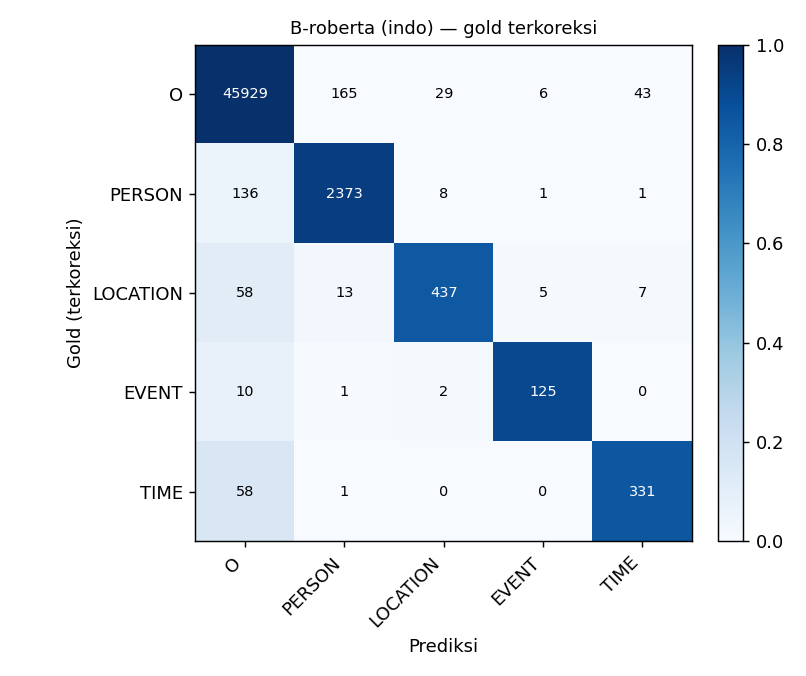
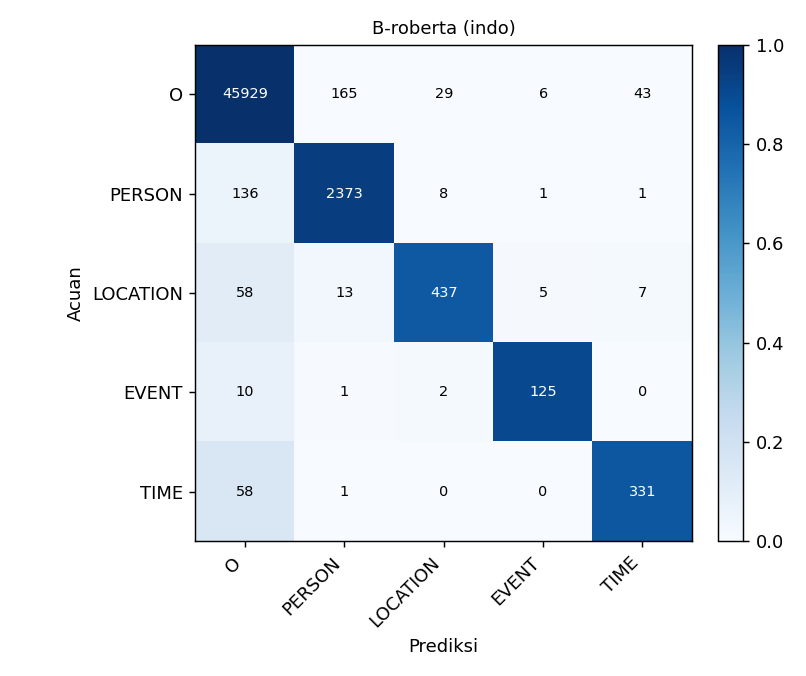
docs(bab4): perbaikan §4.5 Evaluasi KG (query Neo4j, artefak, komunitas 66, angka 728)
- §4.5.1: jumlah relasi ke angka Neo4j nyata (693 entitas + 35 IN_PERIOD = 728);
  +penjelasan 705 catatan → 12 triple duplikat di-MERGE
- §4.5.2: +2 paragraf analisis artefak berbasis data — Abu Azzah/Khunais (deg 70,
  Badr+Uhud, halaman 612) di PR; degenerasi betweenness (Abu Azzah vs Husain,
  skor kembar, Jabir jembatan semu, Ibnu Hajar perawi)
- Gambar 4.17: query diperbaiki jadi ego co-participation (lewat Event, weight>=0.3)
  agar cocok degree centrality Tabel 4.19; dibedakan dari 4.21 (ego relasi langsung)
- Gambar 4.18: dari 6 tokoh pilihan → komunitas terbesar UTUH (66 anggota) via
  properti community (set_community_v4.cypher); +Lampiran data komunitas
- Gambar 4.19: matplotlib → screenshot Neo4j (query gabungan 5 peristiwa)
- Fix path Gambar 4.11/4.14 → folder gt_corrected (GT-terkoreksi), bukan grupB lama
- recompute_gt_corrected.py: hapus teks "gold terkoreksi" dari judul/label confusion;
  10 PNG confusion diregen bersih
- +PANDUAN_neo4j_evaluasi_graf.md (runbook 8 screenshot + Tabel 4.25)

Changed region(s): [[0.3412, 0.0311, 0.7444, 0.0621], [0.062, 0.3417, 0.1241, 0.5281]]

diff --git a/src/pseudo_labelling/SRL-NER/recompute_gt_corrected.py b/src/pseudo_labelling/SRL-NER/recompute_gt_corrected.py
@@ -177,7 +177,7 @@ def plot_confusion(gold_lab: pd.Series, pred: pd.Series, title: str, path: Path)
     im = ax.imshow(cm_norm, cmap="Blues", vmin=0, vmax=1)
     ax.set_xticks(range(len(CONF_CLASSES))); ax.set_xticklabels(CONF_CLASSES, rotation=45, ha="right")
     ax.set_yticks(range(len(CONF_CLASSES))); ax.set_yticklabels(CONF_CLASSES)
-    ax.set_xlabel("Prediksi"); ax.set_ylabel("Gold (terkoreksi)")
+    ax.set_xlabel("Prediksi"); ax.set_ylabel("Acuan")
     ax.set_title(title, fontsize=10)
     for i in range(len(CONF_CLASSES)):
         for j in range(len(CONF_CLASSES)):
@@ -215,7 +215,7 @@ def main() -> None:
         f1_new = f1_score(ts_n, ps_n)
         rep_new = seq_report(ts_n, ps_n, digits=4)
         pl = per_label_f1(rep_new)
-        plot_confusion(gold_new, pred, f"{tag} — gold terkoreksi", CONF_DIR / f"{tag.split()[0]}.png")
+        plot_confusion(gold_new, pred, f"{tag}", CONF_DIR / f"{tag.split()[0]}.png")
         print(f"{tag:32s} F1 {f1_old:.4f} -> {f1_new:.4f}  ({f1_new-f1_old:+.4f})")
         rows.append({"tag": tag, "f1_old": f1_old, "f1_new": f1_new,
                      "P": precision_score(ts_n, ps_n), "R": recall_score(ts_n, ps_n),

diff --git a/docs/bab4/hasil_pembahasan.md b/docs/bab4/hasil_pembahasan.md
@@ -280,7 +280,7 @@ Awal nama "Murrah" yang seharusnya penanda awal entitas (*B*) justru ditandai se
 *Confusion matrix* IndoBERT *cased* ditunjukkan pada Gambar 4.11. Dibandingkan model sehat pada Gambar 4.4, kebocoran pada penanganan *Person* langsung terlihat: sel *O* yang diprediksi *Person* melonjak ke 200 token dan *Person* yang diprediksi *O* ke 149 token, jauh di atas *augmentation* yang hanya 12 dan 15. Kekeliruan antar-tipe pun naik menjadi 39 token yang menyebar pada sel-sel kecil di sekitar *Person* dan *Location*, berbanding hanya 4 token pada model sehat. Satu hal penting saat membaca gambar ini, matriksnya bersifat tingkat-tipe sehingga penanda *B* dan *I* digabung; akibatnya ledakan kesalahan batas *B/I* (sekitar 138 token yang menjadi gejala utama anomali) tidak muncul sebagai sel tersendiri melainkan tersembunyi di dalam hitungan *Person* yang dianggap benar. Dengan kata lain, Gambar 4.11 memperlihatkan sisi deteksi dan tipe dari defisit *Person*, sedangkan komponen batasnya terbaca terpisah pada hitungan token yang dibahas sebelumnya.
 
 [SISIPKAN GAMBAR 4.11 - Confusion Matrix IndoBERT cased (anomali)]
-<!-- file: data/result/analysis/error_viz/per_skenario/indobert-cased/confusion_matrix.png -->
+<!-- file: data/result/analysis/gt_corrected_2026_07_10/confusion/B-indobert-cased.png (GT-terkoreksi done_newest; path lama error_viz/per_skenario/indobert-cased/... = grupB 17 Juni, JANGAN dipakai) -->
 
 ---
 
@@ -337,7 +337,7 @@ Untuk memperlihatkan kategori error terbesar itu secara konkret, yaitu entitas t
 *Confusion matrix* skenario POS-tag ditunjukkan pada Gambar 4.14. Strukturnya menyerupai model sehat, yaitu kesalahan terkonsentrasi pada baris dan kolom *O* sementara kebingungan antar-tipe entitas tetap kecil (hanya sekitar 10 token). Dibandingkan *baseline*, sel over-deteksi justru mengecil, terutama *O* yang diprediksi *Person* (28 token berbanding 38 pada *baseline*), sedangkan sel entitas yang diprediksi *O* membesar, terutama *Location* yang terlewat (43 token berbanding 33). Pola ini sejalan dengan Tabel 4.15 yang menunjukkan *precision* POS-tag lebih tinggi tetapi *recall* lebih rendah, yaitu fitur POS membuat model lebih berhati-hati sehingga lebih sedikit salah tebak tetapi lebih banyak entitas terlewat.
 
 [SISIPKAN GAMBAR 4.14 - Confusion Matrix Skenario POS-tag]
-<!-- file: data/result/analysis/error_viz/per_skenario/POS-tag/confusion_matrix.png -->
+<!-- file: data/result/analysis/gt_corrected_2026_07_10/confusion/S5-POS-tag.png (GT-terkoreksi done_newest; path lama error_viz/per_skenario/POS-tag/... = grupB 17 Juni, JANGAN dipakai) -->
 
 Perbandingan *baseline* dan POS-tag dari empat sudut dirangkum pada Gambar 4.15. Panel total error (kiri-atas) menunjukkan keduanya nyaris sama banyak (POS-tag 164 berbanding *baseline* 165 token). Yang lebih informatif adalah dua panel komposisi: panel *false negative* per kelas (kanan-atas) memperlihatkan POS-tag justru melewatkan lebih banyak entitas (106 berbanding 98 token, tambahan terbesar pada *Location*), sedangkan panel *false positive* per kelas (kiri-bawah) memperlihatkan kebalikannya, yaitu over-deteksi POS-tag mengecil (40 berbanding 55 token). Kedua panel ini adalah wujud visual paling langsung dari pertukaran *precision* yang naik tetapi *recall* yang turun, yaitu model menjadi lebih berhati-hati sehingga lebih sedikit salah tebak, tetapi dengan ongkos lebih banyak entitas terlewat. Panel *FN-rate* per kelas (kanan-bawah) menunjukkan POS-tag tidak menurunkan tingkat terlewat kelas minoritas secara konsisten (*Time* sedikit membaik sementara *Location* justru memburuk), perubahan yang terlalu kecil dan tidak searah untuk disebut manfaat bersih. Dengan demikian, panel ini memperkuat kesimpulan bahwa modul POS-tag tidak memberikan perbaikan bersih.
 
@@ -358,7 +358,7 @@ Analisis sentralitas tokoh dilakukan pada proyeksi jaringan antar tokoh (*Person
 
 ### 4.5.1 Konstruksi Knowledge Graph
 
-*Knowledge graph* Sirah Nabawiyah dibangun dari hasil prediksi NER model pemenang (IndoBERT *uncased* dengan *augmentation*) terhadap seluruh korpus, lalu disimpan di Neo4j. Graf hasil konstruksi memuat 1.177 *node* entitas, yaitu 901 *Person*, 167 *Time*, 74 *Location*, dan 35 *Event*, ditambah 15 *node* *Period* sebagai penanda babak kronologis Sirah. Antar *node* terbentuk 705 relasi, yaitu 312 `KELUARGA`, 237 `INVOLVED_IN` (keterlibatan tokoh pada peristiwa), 47 `OCCURRED_AT` (lokasi peristiwa), 47 `OCCURRED_ON` (waktu peristiwa), 33 `SAHABAT`, 17 `PRECEDES` (urutan kronologis antar peristiwa), dan 12 `MUSUH`, ditambah 35 relasi `IN_PERIOD` yang menautkan tiap peristiwa ke periodenya. Setiap relasi menyimpan metadata penelusuran (*provenance*) berupa potongan bukti, nomor halaman, dan penanda *chunk*, sehingga setiap fakta pada graf dapat dilacak balik ke teks sumber. Contoh potongan *knowledge graph* hasil konstruksi ditunjukkan pada Gambar 4.16, yaitu sub-graf salah satu peristiwa (Perang Badr) beserta tokoh, lokasi, dan waktu yang tertaut, sebagai gambaran bentuk graf secara umum.
+*Knowledge graph* Sirah Nabawiyah dibangun dari hasil prediksi NER model pemenang (IndoBERT *uncased* dengan *augmentation*) terhadap seluruh korpus, lalu disimpan di Neo4j. Graf hasil konstruksi memuat 1.177 *node* entitas, yaitu 901 *Person*, 167 *Time*, 74 *Location*, dan 35 *Event*, ditambah 15 *node* *Period* sebagai penanda babak kronologis Sirah. Antar *node* terbentuk 693 relasi antar entitas, yaitu 312 `KELUARGA`, 229 `INVOLVED_IN` (keterlibatan tokoh pada peristiwa), 44 `OCCURRED_AT` (lokasi peristiwa), 46 `OCCURRED_ON` (waktu peristiwa), 33 `SAHABAT`, 17 `PRECEDES` (urutan kronologis antar peristiwa), dan 12 `MUSUH`, ditambah 35 relasi `IN_PERIOD` yang menautkan tiap peristiwa ke periodenya, sehingga *knowledge graph* memuat total 728 relasi. Tahap ekstraksi sebenarnya menghasilkan 705 catatan relasi, tetapi 12 di antaranya merupakan tiga serangkai (tokoh, jenis relasi, dan sasaran) yang identik namun ditemukan pada lokasi teks berbeda; keduabelas catatan itu digabung menjadi satu relasi dengan bukti ganda saat pemuatan ke Neo4j. Setiap relasi menyimpan metadata penelusuran (*provenance*) berupa potongan bukti, nomor halaman, dan penanda *chunk*, sehingga setiap fakta pada graf dapat dilacak balik ke teks sumber. Contoh potongan *knowledge graph* hasil konstruksi ditunjukkan pada Gambar 4.16, yaitu sub-graf salah satu peristiwa (Perang Badr) beserta tokoh, lokasi, dan waktu yang tertaut, sebagai gambaran bentuk graf secara umum.
 
 [SISIPKAN GAMBAR 4.16 - Contoh Knowledge Graph: Sub-graf Peristiwa Perang Badr]
 <!-- Screenshot Neo4j Browser. Reproduksi: `MATCH (e:Event {name:"Perang Badr"})-[r]-(n) RETURN e,r,n LIMIT 60` lalu tata layout & screenshot. Warna otomatis per-label (Person hijau-zaitun, Event biru, Location, Time). -->
@@ -428,22 +428,30 @@ Ketiga ukuran G1 sepakat menempatkan Muhammad di puncak dengan jarak yang sangat
 
 **Validasi tokoh yang terdengar asing.** Sebagian nama pada sepuluh besar mungkin terdengar asing dibanding tokoh yang lazim disebut sentral dalam literatur Sirah (para Khulafa Rasyidin). Kemunculan mereka berakar pada cara graf dibentuk, yaitu dua tokoh dihubungkan bila terlibat pada peristiwa yang sama (*co-participation*), sedangkan relasi keterlibatan (`INVOLVED_IN`) diekstraksi berdasarkan kedekatan posisi tokoh dengan nama peristiwa di dalam teks. Akibatnya, tokoh minor yang kebetulan disebut di dalam atau dekat *chunk* peristiwa berpenghuni padat (Perang Badr saja menautkan puluhan tokoh) otomatis terhubung ke seluruh peserta peristiwa itu dan membentuk *clique*, sehingga sentralitasnya ikut melonjak. Dengan kata lain, peringkat sentralitas sebagian mencerminkan seberapa banyak teks menyebut seseorang di sekitar peristiwa besar, bukan semata bobot historisnya. Contoh paling jelas adalah **Amr Bin Umayyah**: pada graf tanpa pembobotan ia sempat menempati peringkat kedua *PageRank* (degree 119), tepat di bawah Nabi Muhammad, posisi yang mencurigakan secara historis. Penelusuran balik ke teks menunjukkan tiga dari empat relasi `INVOLVED_IN`-nya adalah *false positive*, sebab keterkaitannya dengan Perang Badr, Uhud, dan Tabuk muncul dari kalimat yang sebenarnya membicarakan tokoh atau perbandingan lain, sementara hanya Perang Khandaq yang sahih; peran sebenarnya menurut teks adalah kurir Nabi ke Najasyi. Pembobotan sisi (membuang *co-mention* lemah) bersama pembatasan cakupan ke tokoh peserta peristiwa menurunkan Amr ke peringkat ke-12 sehingga ia tidak lagi muncul pada sepuluh besar Tabel 4.19. Kedua penyaringan itu menghapus kategori artefak terbesar, yaitu tokoh silsilah yang tanpa penyaringan sempat menggelembung ke puncak *PageRank* semata karena panjangnya rantai nasab (garis keturunan pra-Islam seperti para leluhur Nabi yang tidak pernah terlibat satu peristiwa pun), tetapi tidak menghapus seluruhnya. **Abu Azzah** (peringkat delapan) dan **Khunais bin Hudzafah** (peringkat sembilan) pada Tabel 4.19 adalah sisa artefak *clique*, yaitu keduanya disebut di dalam *chunk* peperangan besar (Perang Badr dan Uhud) sehingga otomatis tertaut ke seluruh pesertanya, dan karena namanya muncul pada kalimat yang sama dengan nama peristiwa, pembobotan tidak memangkasnya. Pola serupa menjelaskan kehadiran perawi pada peringkat jembatan Tabel 4.20, terutama **Ibnu Hajar**, seorang periwayat yang namanya berulang di seluruh teks sebagai penyebut sumber dan bukan pelaku peristiwa. Temuan ini menegaskan bahwa peringkat sentralitas wajib divalidasi balik ke teks, dan bahwa solusi tuntas atas over-ekstraksi `INVOLVED_IN` berbasis kedekatan posisi adalah ekstraksi relasi berbasis makna kata kerja, yang menjadi arah pengembangan lanjutan.
 
-Dominasi sentralitas Muhammad juga terlihat langsung ketika jaringan ego-nya disandingkan dengan tokoh lain. Gambar 4.17 membandingkan jaringan ego Nabi Muhammad dengan jaringan ego Abu Bakar, yaitu seluruh entitas yang terhubung langsung dengan masing-masing tokoh. Simpul Muhammad menautkan jauh lebih banyak tokoh dan peristiwa (sekitar 108 tetangga langsung) daripada Abu Bakar yang jauh lebih sedikit, sehingga selisih *degree centrality* pada Tabel 4.19 (Muhammad 0,7941 berbanding Abu Bakar 0,5441) terbaca sebagai perbedaan kepadatan graf yang mencolok. Perbandingan visual ini menegaskan bahwa dominasi Muhammad bukan sekadar angka, melainkan pola keterhubungan yang kasat mata.
+**Mengapa Abu Azzah dan Khunais bin Hudzafah masuk sepuluh besar.** Kedua nama ini menempati peringkat delapan dan sembilan dengan skor yang identik persis (*PageRank* 0,0161, *degree centrality* 0,5147, *closeness* 0,6242, tampil sebagai dua baris kembar pada Tabel 4.19), dan keidentikan itu sendiri adalah petunjuk pertama bahwa keduanya artefak, bukan sentralitas nyata, sebab dua tokoh historis yang berbeda hampir tidak mungkin memiliki posisi jaringan yang sama persis. Penelusuran ke graf memastikan penyebabnya: keduanya sama-sama tertaut hanya pada dua peristiwa, yaitu Perang Badr dan Perang Uhud, dua *chunk* peperangan berpenghuni paling padat (masing-masing menautkan 58 tokoh). Karena proyeksi *co-participation* menghubungkan setiap pasangan tokoh yang berbagi peristiwa, sekadar tercatat di dalam kedua *chunk* ramai itu langsung mengaitkan keduanya ke seluruh peserta kedua peristiwa, sehingga masing-masing memperoleh *degree* 70 dari 137 tokoh, yaitu terhubung ke lebih dari separuh jaringan, hanya sedikit di bawah Ali bin Abu Thalib (*degree* 78) yang merupakan tokoh sentral sesungguhnya. Inilah inti mekanisme artefak *clique*: nama minor yang kebetulan disebut di dalam *chunk* peristiwa besar mewarisi seluruh keterhubungan peristiwa itu tanpa pernah menjadi poros, dan karena himpunan tetangga Abu Azzah dan Khunais sama persis, skor sentralitas keduanya menjadi tak terbedakan. Bukti tambahan bahwa keterkaitan ini lahir dari kedekatan penyebutan, bukan keterlibatan nyata, terlihat pada sumbernya: kedua relasi Khunais, baik ke Perang Badr maupun ke Perang Uhud, berasal dari halaman yang sama (612), sebuah pasal biografis yang membahas pernikahan dan bukan narasi kedua peperangan itu, sehingga nama peristiwa yang kebetulan tersebut di dekat namanya cukup untuk membangkitkan relasi keterlibatan yang keliru. Pola ini sejenis dengan artefak Amr bin Umayyah yang telah dibahas, dan sekali lagi menegaskan bahwa over-ekstraksi `INVOLVED_IN` berbasis kedekatan posisi hanya dapat dituntaskan melalui ekstraksi relasi berbasis makna kata kerja.
+
+**Mengapa nama periferal menonjol pada betweenness (Tabel 4.20).** Ukuran *betweenness* pada graf sepadat ini sangat tidak stabil, dan tingkat ketidakstabilannya dapat ditunjukkan dengan satu contoh telak: Abu Azzah dan Husain bin Ali sama-sama hanya terlibat pada Perang Badr dan Perang Uhud serta sama-sama ber-*degree* 70, namun *betweenness* keduanya berbeda ratusan kali lipat (0,0001 berbanding 0,0548) semata karena perbedaan bobot sisi pada jaringan yang jenuh, bukan karena perbedaan peran sosial. Gejala yang sama muncul sebagai skor kembar: Ummu Kultsum dan Husain bin Ali memiliki *betweenness* identik (0,0548), begitu pula Al-Barra' bin Azib dan Ibnu Hajar (0,0380), dan keidentikan ini kembali menjadi penanda artefak struktural, bukan kesamaan peran historis. Satu-satunya nama periferal yang mendekati jembatan sejati adalah Jabir bin Abdullah di peringkat dua, yang berbeda dari lainnya karena tertaut ke tiga peristiwa yang benar-benar berbeda (Perang Uhud, Perang Khandaq, dan Perjanjian Hudaibiyah) sehingga menghubungkan tiga kelompok peristiwa sekaligus; namun keterhubungan itu pun tetap lahir dari aturan *co-participation*, bukan dari peran perantara yang tercatat eksplisit dalam teks. Adapun Ibnu Hajar, kemunculannya paling jelas sebagai artefak karena ia seorang periwayat yang namanya berulang di seluruh teks sebagai penyebut sumber, bukan pelaku peristiwa. Dengan demikian, *betweenness* di sini sebaiknya dibaca hanya untuk menegaskan dominasi Muhammad (0,2808, lebih dari empat kali peringkat kedua) dan tidak dipakai untuk menilai peringkat tokoh-tokoh di bawahnya.
+
+Dominasi sentralitas Muhammad juga terlihat langsung ketika jaringan ego-nya disandingkan dengan tokoh lain. Gambar 4.17 membandingkan jaringan ego Nabi Muhammad dengan jaringan ego Abu Bakar pada proyeksi antar tokoh, yaitu tokoh-tokoh yang terhubung dengan masing-masing melalui keterlibatan pada peristiwa yang sama (*co-participation*), sesuai dengan cara *degree centrality* pada Tabel 4.19 dihitung. Karena hubungan antar tokoh ini terbentuk lewat peristiwa bersama dan bukan melalui relasi langsung, penelusurannya pada Neo4j menempuh jalur tokoh ke peristiwa ke tokoh, yaitu melewati simpul *Event*, agar visualisasinya benar-benar mencerminkan jaringan yang diukur. Simpul Muhammad menautkan jauh lebih banyak tokoh (lebih dari seratus, sejalan dengan *degree centrality* 0,7941 yang setara sekitar 108 dari 137 tokoh) daripada Abu Bakar yang jauh lebih sedikit (sekitar tujuh puluh, *degree centrality* 0,5441), sehingga selisih itu terbaca sebagai perbedaan kepadatan graf yang mencolok. Perbandingan visual ini menegaskan bahwa dominasi Muhammad bukan sekadar angka, melainkan pola keterhubungan yang kasat mata.
 
 [SISIPKAN GAMBAR 4.17 - Perbandingan Jaringan Ego: Nabi Muhammad (kiri) vs Abu Bakar (kanan)]
-<!-- Dua screenshot Neo4j Browser bersanding, skala sama. Ego Muhammad: `MATCH (m:Person {name:"Muhammad"})-[r]-(n) RETURN m,r,n` . Ego Abu Bakar: `MATCH (m:Person {name:"Abu Bakar"})-[r]-(n) RETURN m,r,n` . Screenshot masing-masing lalu sandingkan. Muhammad ~108 tetangga vs Abu Bakar jauh lebih sedikit. -->
+<!-- Dua screenshot Neo4j Browser bersanding, skala sama. WAJIB ego CO-PARTICIPATION (lewat Event), BUKAN relasi langsung, agar cocok dgn degree centrality Tabel 4.19.
+Ego Muhammad:
+MATCH (m:Person {name:"Muhammad"})-[r1:INVOLVED_IN]->(e:Event)<-[r2:INVOLVED_IN]-(p:Person)
+WHERE r1.weight >= 0.3 AND r2.weight >= 0.3
+RETURN m, e, p
+Ego Abu Bakar: query sama, ganti name jadi "Abu Bakar".
+Hasil: Muhammad ~101 tokoh co-participation (degree proyeksi 108) vs Abu Bakar ~70 (degree 74). Simpul Event tampil sebagai perantara — itu benar, memperlihatkan co-participation terbentuk.
+CATATAN: ini BEDA dari Gambar 4.21 yang sengaja memakai ego relasi LANGSUNG (naratif KELUARGA/SAHABAT/MUSUH/INVOLVED_IN). Jadi 4.17 dan 4.21 = screenshot berbeda, tidak bisa dipakai ulang. -->
 
 ### 4.5.3 Komunitas Tokoh
 
-Deteksi komunitas (G3) dengan algoritma Louvain menghasilkan 8 komunitas dengan modularitas Q = 0,2831, nilai yang menunjukkan struktur kelompok yang masih terlihat namun tidak setajam graf yang lebih longgar, wajar mengingat inti peserta peristiwa saling terhubung rapat sehingga batas antar-kelompok melembut. Dua komunitas terbesar mendominasi: komunitas lingkar Muslim inti (66 anggota; tokoh utama Muhammad, Ali, Umar, Abu Bakar, Aisyah, Utsman) dan sebuah komunitas campuran (47 anggota) yang menautkan tokoh oposisi Quraisy (Abu Jahal, Abu Sufyan) dengan sejumlah tokoh Muslim yang banyak terlibat peperangan (Hamzah bin Abdul Muththalib, Zaid bin Haritsah). Percampuran ini sendiri menjadi tanda bahwa pada modularitas serendah ini pemisahan antar-faksi belum tajam, sejalan dengan padatnya jaringan yang dibahas pada Tabel 4.18. Pengelompokan bersifat cukup stabil terhadap pilihan algoritma pada tingkat sedang, ditunjukkan oleh kesepakatan antara Louvain dan *greedy modularity* (*Adjusted Rand Index* 0,47). Karena Neo4j Browser mewarnai simpul menurut labelnya dan bukan menurut komunitas, salah satu komunitas terbesar, yaitu lingkar Muslim inti, ditampilkan sebagai sub-graf tersendiri pada Gambar 4.18 untuk memperlihatkan kerapatan hubungan di dalam satu komunitas.
+Deteksi komunitas (G3) dengan algoritma Louvain menghasilkan 8 komunitas dengan modularitas Q = 0,2831, nilai yang menunjukkan struktur kelompok yang masih terlihat namun tidak setajam graf yang lebih longgar, wajar mengingat inti peserta peristiwa saling terhubung rapat sehingga batas antar-kelompok melembut. Dua komunitas terbesar mendominasi: komunitas lingkar Muslim inti (66 anggota; tokoh utama Muhammad, Ali, Umar, Abu Bakar, Aisyah, Utsman) dan sebuah komunitas campuran (47 anggota) yang menautkan tokoh oposisi Quraisy (Abu Jahal, Abu Sufyan) dengan sejumlah tokoh Muslim yang banyak terlibat peperangan (Hamzah bin Abdul Muththalib, Zaid bin Haritsah). Percampuran ini sendiri menjadi tanda bahwa pada modularitas serendah ini pemisahan antar-faksi belum tajam, sejalan dengan padatnya jaringan yang dibahas pada Tabel 4.18. Pengelompokan bersifat cukup stabil terhadap pilihan algoritma pada tingkat sedang, ditunjukkan oleh kesepakatan antara Louvain dan *greedy modularity* (*Adjusted Rand Index* 0,47). Karena Neo4j Browser mewarnai simpul menurut labelnya dan bukan menurut komunitas (pewarnaan per-komunitas menuntut plugin GDS yang tidak dipakai), hasil pengelompokan Louvain dari tahap analisis ditulis balik sebagai properti pada tiap simpul, lalu komunitas terbesar (66 anggota) ditampilkan utuh sebagai sub-graf tersendiri pada Gambar 4.18 untuk memperlihatkan kerapatan hubungan di dalam satu komunitas. Rincian keanggotaan seluruh komunitas (kedelapan komunitas bermakna beserta pasangan periferalnya) disajikan pada Lampiran [PERIKSA nomor: Data Komunitas Jaringan Tokoh], sedangkan di sini hanya ditampilkan sub-graf komunitas terbesarnya.
 
-[SISIPKAN GAMBAR 4.18 - Sub-graf Komunitas Lingkar Muslim Inti pada Neo4j Browser]
-<!-- Screenshot Neo4j Browser (tanpa GDS). Neo4j mewarnai per-label, bukan komunitas; pewarnaan komunitas butuh plugin GDS. Sebagai gantinya tampilkan anggota inti satu komunitas + relasi antar-mereka. Query:
-MATCH (p:Person)-[r]-(q:Person)
-WHERE p.name IN ['Muhammad','Abu Bakar','Umar bin Al-Khaththab','Utsman bin Affan','Ali bin Abu Thalib','Aisyah']
-  AND q.name IN ['Muhammad','Abu Bakar','Umar bin Al-Khaththab','Utsman bin Affan','Ali bin Abu Thalib','Aisyah']
-RETURN p,r,q
--- lalu screenshot. -->
+[SISIPKAN GAMBAR 4.18 - Sub-graf Komunitas Terbesar (66 anggota) pada Neo4j Browser]
+<!-- Screenshot Neo4j Browser. Neo4j mewarnai per-label, bukan komunitas (butuh plugin GDS yang tak dipakai). Solusi: jalankan set_community_v4.cypher dulu (menulis properti `community` dari sna_metrics.csv v4_scoped), lalu tampilkan komunitas terbesar (id 0, 66 anggota) UTUH:
+MATCH (p:Person {community:0})-[r]-(q:Person {community:0}) RETURN p,r,q
+-- Hasil: 66 simpul + relasi internal antar-mereka; tampak padat = itulah kerapatan komunitas yang mau ditunjukkan. Prasyarat: data/result/neo4j/set_community_v4.cypher (dijalankan setelah import_sirah_v4_hybrid.cypher). -->
 
 ### 4.5.4 Peristiwa, Lokasi, dan Periodisasi
 
@@ -520,10 +528,14 @@ Bukti paling kuat dari skenario ini adalah Muhammad sebagai tokoh dengan jangkau
 <!-- Angka di-recompute dari graf final SNA (edges_v4_hybrid.csv, INVOLVED_IN weight >= 0.3, sama dengan WEIGHT_THRESHOLD di sna_analysis.py) via visualize_case_study_events.py --version v4_hybrid. Konsisten dengan header tiap panel pada Gambar 4.19. -->
 
 
-[SISIPKAN GAMBAR 4.19 - Panel Sub-graf Lima Peristiwa Besar]
-<!-- file: data/result/analysis/v3/case_study_panel.png -->
+[SISIPKAN GAMBAR 4.19 - Sub-graf Lima Peristiwa Besar (Neo4j Browser)]
+<!-- Screenshot Neo4j Browser (§4.5 seluruhnya Neo4j, bukan matplotlib). Query gabungan lima peristiwa dalam satu tampilan:
+MATCH (p:Person)-[r:INVOLVED_IN]->(e:Event)
+WHERE e.name IN ["Perang Badr","Perang Uhud","Perjanjian Hudaibiyah","Perang Khaibar","Perang Tabuk"]
+RETURN p,r,e
+-- Hasil: 5 gugus event; Badr/Uhud padat (44/41 tokoh), Hudaibiyah/Khaibar 7, Tabuk 4; Muhammad menaut kelimanya. Warna otomatis per-label (Event vs Person). Alternatif: 5 screenshot terpisah, satu per baris Tabel 4.24. Angka acuan = Tabel 4.24 (v4). -->
 
-Secara visual, Gambar 4.19 menyusun kelima sub-graf dengan satu *node* peristiwa (kuning) di pusat tiap panel dan tokoh peserta (biru) mengelilinginya, dihubungkan garis merah untuk relasi `INVOLVED_IN` serta garis hijau untuk relasi antar-tokoh (keluarga dan sahabat). Perbedaan kepadatan antar panel langsung terbaca: panel Perang Badr (44 tokoh) dan Perang Uhud (41 tokoh) tampak rapat oleh banyak tokoh dan garis, sedangkan Perjanjian Hudaibiyah (7 tokoh), Perang Khaibar (7 tokoh), dan Perang Tabuk (4 tokoh) hanya berisi segelintir tokoh, sehingga kontras cakupan antar peristiwa terlihat sekilas pandang. Dari kelima peristiwa, terkumpul 83 tokoh unik dan hanya Muhammad yang hadir di seluruh lima peristiwa, menegaskan perannya sebagai tulang punggung jaringan. Ukuran sub-graf menurun tajam dari Perang Badr ke Perjanjian Hudaibiyah. Penurunan ini lebih mencerminkan **bias cakupan NER** (seberapa banyak tokoh disebut pada *chunk* peristiwa itu) daripada keterlibatan historis sebenarnya, karena setiap sub-graf peristiwa secara konstruksi membentuk *clique* (semua peserta saling terhubung) sehingga *density* selalu bernilai 1,0 dan tidak informatif sebagai pembanding. Ukuran (jumlah tokoh) dan jumlah relasi langsung antar tokoh lebih tepat dipakai sebagai pembanding kohesi. Sebagai bukti keterbatasan aturan ini, daftar peserta Perang Badr justru mencampur dua kubu yang saling berperang: tokoh Muslim (Ali bin Abu Thalib, Hamzah bin Abdul Muththalib, Utsman bin Affan) dan tokoh Quraisy (Abu Jahal, Abu Lahab, Abu Sufyan bin Harb) sama-sama tertaut sebagai `INVOLVED_IN` peristiwa yang sama. Hal ini menegaskan bahwa relasi *co-participation* hanya menyatakan "terlibat pada peristiwa yang sama", bukan "berada di pihak yang sama", sehingga sub-graf peristiwa tidak boleh dibaca sebagai aliansi.
+Secara visual, Gambar 4.19 menampilkan kelima peristiwa beserta tokoh pesertanya langsung dari Neo4j Browser dalam satu tampilan, dengan simpul diwarnai otomatis menurut labelnya (peristiwa dan tokoh berbeda warna) dan tiap peristiwa menjadi pusat gugus tokoh yang tertaut kepadanya melalui relasi `INVOLVED_IN`. Perbedaan kepadatan antar gugus langsung terbaca: gugus Perang Badr (44 tokoh) dan Perang Uhud (41 tokoh) tampak rapat oleh banyak tokoh, sedangkan Perjanjian Hudaibiyah (7 tokoh), Perang Khaibar (7 tokoh), dan Perang Tabuk (4 tokoh) hanya berisi segelintir tokoh, sehingga kontras cakupan antar peristiwa terlihat sekilas pandang. Dari kelima peristiwa, terkumpul 83 tokoh unik dan hanya Muhammad yang hadir di seluruh lima peristiwa, menegaskan perannya sebagai tulang punggung jaringan. Ukuran sub-graf menurun tajam dari Perang Badr ke Perjanjian Hudaibiyah. Penurunan ini lebih mencerminkan **bias cakupan NER** (seberapa banyak tokoh disebut pada *chunk* peristiwa itu) daripada keterlibatan historis sebenarnya, karena setiap sub-graf peristiwa secara konstruksi membentuk *clique* (semua peserta saling terhubung) sehingga *density* selalu bernilai 1,0 dan tidak informatif sebagai pembanding. Ukuran (jumlah tokoh) dan jumlah relasi langsung antar tokoh lebih tepat dipakai sebagai pembanding kohesi. Sebagai bukti keterbatasan aturan ini, daftar peserta Perang Badr justru mencampur dua kubu yang saling berperang: tokoh Muslim (Ali bin Abu Thalib, Hamzah bin Abdul Muththalib, Utsman bin Affan) dan tokoh Quraisy (Abu Jahal, Abu Lahab, Abu Sufyan bin Harb) sama-sama tertaut sebagai `INVOLVED_IN` peristiwa yang sama. Hal ini menegaskan bahwa relasi *co-participation* hanya menyatakan "terlibat pada peristiwa yang sama", bukan "berada di pihak yang sama", sehingga sub-graf peristiwa tidak boleh dibaca sebagai aliansi.
 
 
 **Analisis error/keterbatasan graf.** Sebagaimana error pada NER, struktur graf juga memuat sejumlah *artifact* yang perlu diungkap secara jujur:

diff --git a/docs/bab4/PANDUAN_neo4j_evaluasi_graf.md b/docs/bab4/PANDUAN_neo4j_evaluasi_graf.md
@@ -1,0 +1,120 @@
+# Panduan Neo4j untuk §4.5 Evaluasi Knowledge Graph
+
+Panduan praktis: gambar apa yang butuh screenshot Neo4j, query persisnya, dan cara mengisi Tabel 4.25. Ikuti berurutan.
+
+---
+
+## Langkah 0 — Prasyarat (WAJIB, sekali saja)
+
+1. Buka **Neo4j Desktop** → buat/aktifkan satu DBMS kosong → **Open with Neo4j Browser**.
+2. Import knowledge graph v4 (model pemenang, augmentation). Di Browser, jalankan isi berkas:
+   ```
+   data/result/neo4j/import_sirah_v4_hybrid.cypher
+   ```
+   Cara cepat: buka berkas itu, salin seluruh isinya ke Browser, Run. (Atau `:source` bila pakai cypher-shell.)
+   > ⚠ Pakai **`import_sirah_v4_hybrid.cypher`** — BUKAN v2/v3/v4 (non-hybrid). Ini yang konsisten dengan seluruh angka §4.5.
+3. Cek berhasil — angka yang benar:
+   ```cypher
+   MATCH (n) RETURN count(n) AS node;   // 1192 (1177 entitas + 15 Period)
+   MATCH ()-[r]->() RETURN count(r) AS edge;   // 728 (693 antar entitas + 35 IN_PERIOD)
+   ```
+   > Catatan: CSV memuat 705 baris relasi, tetapi 12 di antaranya triple identik (beda bukti/halaman) yang digabung `MERGE` jadi satu edge, sehingga graf akhir 693 + 35 = **728**. Ini normal, bukan galat.
+4. **Tulis label komunitas** (khusus untuk Gambar 4.18). Jalankan isi berkas:
+   ```
+   data/result/neo4j/set_community_v4.cypher
+   ```
+   Ini menambah properti `community` (hasil Louvain dari analisis Python) ke tiap simpul Person, karena Neo4j tak bisa mendeteksi komunitas sendiri tanpa plugin GDS. Cek: `MATCH (p:Person) WHERE p.community=0 RETURN count(p);` harus mengembalikan **66**.
+
+Setelah graf ter-load, kerjakan gambar di bawah. Tiap screenshot: jalankan query → tata layout (drag simpul biar rapi) → tombol kamera/expand → simpan PNG.
+
+---
+
+## Langkah 1 — Gambar yang butuh screenshot Neo4j (6 gambar)
+
+| Gambar | Isi | Query Cypher | Catatan |
+|---|---|---|---|
+| **4.16** | Contoh KG: sub-graf Perang Badr | `MATCH (e:Event {name:"Perang Badr"})-[r]-(n) RETURN e,r,n LIMIT 60` | Warna otomatis per-label. Tunjukkan tokoh+lokasi+waktu yang tertaut. |
+| **4.17 (kiri)** | Ego **co-participation** Muhammad | (query di bawah — lewat Event) | ~101 tokoh (degree proyeksi 108). **WAJIB lewat Event**, bukan relasi langsung, agar cocok degree centrality Tabel 4.19. |
+| **4.17 (kanan)** | Ego **co-participation** Abu Bakar | (query di bawah — lewat Event) | ~70 tokoh. Sandingkan dgn Muhammad **pada skala/zoom sama** biar kontras degree terlihat. |
+| **4.18** | Sub-graf komunitas terbesar (66 anggota) | (query di bawah) | Perlu `set_community_v4.cypher` dulu (Langkah 0.4). Menampilkan komunitas 0 UTUH (66 tokoh), bukan 6 pilihan. |
+| **4.19** | Sub-graf 5 peristiwa besar (studi kasus) | (query gabungan di bawah) | 5 gugus event dalam satu tampilan; Badr/Uhud padat, Tabuk jarang; Muhammad menaut kelimanya. Alternatif: 5 screenshot terpisah. |
+| **4.20** | Kesalahan graf: INVOLVED_IN palsu Amr bin Umayyah | `MATCH (p:Person {name:"Amr bin Umayyah"})-[r:INVOLVED_IN]->(e:Event) RETURN p,r,e` | Harus muncul **4 relasi** (Badr/Uhud/Tabuk/Khandaq); 3 di antaranya false-positive (bahasannya sudah di prosa §4.5.5). |
+| **4.22** | Hasil kueri fungsional F1 (tokoh Perang Badr) | `MATCH (p:Person)-[r:INVOLVED_IN]->(e:Event {name:"Perang Badr"}) RETURN p,r,e` | Ilustrasi keluaran fungsional dalam bentuk graf. |
+
+**Query Gambar 4.17** (ego co-participation — WAJIB lewat Event, bukan relasi langsung):
+```cypher
+// kiri: Muhammad (ganti name jadi "Abu Bakar" untuk panel kanan)
+MATCH (m:Person {name:"Muhammad"})-[r1:INVOLVED_IN]->(e:Event)<-[r2:INVOLVED_IN]-(p:Person)
+WHERE r1.weight >= 0.3 AND r2.weight >= 0.3
+RETURN m, e, p
+```
+Kenapa lewat Event: *degree centrality* Tabel 4.19 dihitung pada proyeksi antar tokoh (dua tokoh terhubung bila berbagi peristiwa). Query relasi langsung `(m)-[r]-(n)` hanya menampilkan KELUARGA/SAHABAT/MUSUH + Event, jadi TIDAK memperlihatkan ~108 tetangga tokoh itu. Simpul Event yang muncul di tengah adalah perantara co-participation, bukan kesalahan. Threshold `weight >= 0.3` = `WEIGHT_THRESHOLD` di `sna_analysis.py`. Hasil: Muhammad ~101 tetangga vs Abu Bakar ~70.
+
+**Query Gambar 4.18** (komunitas terbesar 66 anggota — perlu properti `community`):
+```cypher
+MATCH (p:Person {community:0})-[r]-(q:Person {community:0}) RETURN p,r,q
+```
+Prasyarat: jalankan `data/result/neo4j/set_community_v4.cypher` lebih dulu (Langkah 0.4) — file itu menulis label komunitas Louvain ke tiap simpul (Neo4j tak bisa deteksi komunitas sendiri tanpa GDS). Hasil: 66 tokuh komunitas terbesar + seluruh relasi internalnya (padat = itu tujuannya). Rincian keanggotaan semua komunitas → `docs/lampiran/lampiran_komunitas_tokoh.md`.
+
+**Query Gambar 4.19** (5 peristiwa besar, satu tampilan gabungan):
+```cypher
+MATCH (p:Person)-[r:INVOLVED_IN]->(e:Event)
+WHERE e.name IN ["Perang Badr","Perang Uhud","Perjanjian Hudaibiyah","Perang Khaibar","Perang Tabuk"]
+RETURN p,r,e
+```
+Lima simpul Event jadi pusat lima gugus tokoh. Kontras kepadatan (Badr/Uhud padat vs Tabuk jarang) langsung terlihat, dan Muhammad tampak menaut kelimanya. Angka acuan = Tabel 4.24. Bila ingin persis seperti panel lama (lima kotak terpisah), ambil 5 screenshot dengan mengganti `name` satu per satu.
+
+### Gambar 4.21 — ego relasi LANGSUNG (BEDA dari 4.17)
+**Gambar 4.21** (§4.5.5, "Jaringan ego Nabi Muhammad") memakai ego **relasi langsung** pada KG, bukan co-participation:
+```cypher
+MATCH (m:Person {name:'Muhammad'})-[r]-(n) RETURN m,r,n
+```
+Ini menampilkan relasi naratif langsung (KELUARGA/SAHABAT/MUSUH + INVOLVED_IN ke Event) dan buku sudah mengungkap bahwa graf ini **berbeda** dari proyeksi co-participation yang dipakai Tabel 4.19/4.20.
+> ⚠ **4.17 ≠ 4.21.** Gambar 4.17 = ego **co-participation** (lewat Event, untuk cocokkan degree centrality); Gambar 4.21 = ego **relasi langsung** (naratif). Query-nya beda, jadi **dua screenshot terpisah** — TIDAK bisa dipakai ulang. (Koreksi dari catatan sebelumnya.)
+> Screenshot lama `docs/bimbingan/screenshots/A1_ego_muhammad.png` JANGAN dipakai — dari KG lama (masih ada event lifecycle Kelahiran/Hijrah Madinah yang tak ada di v4). Ambil ulang dari graf v4.
+
+---
+
+> **Catatan:** seluruh gambar §4.5 kini Neo4j (tidak ada lagi matplotlib). Gambar 4.19 yang dulu panel matplotlib (`v4_hybrid/case_study_panel.png`) sudah diganti jadi screenshot Neo4j (query di atas). File matplotlib itu tak dipakai lagi di buku.
+
+---
+
+## Langkah 2 — Mengisi Tabel 4.25 (Pengujian Fungsional F1–F6)
+
+1. Jalankan **satu query RINGKASAN** ini (ada di ujung `functional_test_queries_bab4.cypher`) — langsung keluar 6 angka sekaligus:
+   ```cypher
+   MATCH (p:Person)-[:INVOLVED_IN]->(:Event {name: "Perang Badr"})
+   WITH count(DISTINCT p) AS q1
+   MATCH (e2:Event)-[:OCCURRED_AT]->(l2:Location) WHERE toLower(l2.name) CONTAINS "madinah"
+   WITH q1, count(DISTINCT e2) AS q2
+   MATCH (e3:Event)-[:OCCURRED_ON]->(t3:Time) WHERE toLower(t3.name) CONTAINS "2 h"
+   WITH q1, q2, count(DISTINCT e3) AS q3
+   MATCH (:Person {name: "Abu Bakar"})-[:INVOLVED_IN]->(e4:Event)
+   WITH q1, q2, q3, count(DISTINCT e4) AS q4
+   MATCH (:Person {name: "Umar bin Al-Khaththab"})-[:INVOLVED_IN]->(:Event)-[:OCCURRED_AT]->(l5:Location)
+   WITH q1, q2, q3, q4, count(DISTINCT l5) AS q5
+   MATCH (:Event)-[r6:PRECEDES]->(:Event)
+   RETURN q1 AS Q1_tokoh_Badr, q2 AS Q2_event_Madinah, q3 AS Q3_event_tahun2H,
+          q4 AS Q4_event_AbuBakar, q5 AS Q5_lokasi_Umar, count(r6) AS Q6_precedes;
+   ```
+2. Salin keenam angka (q1..q6) ke kolom **"Jumlah hasil"** Tabel 4.25 (F1→q1, F2→q2, ... F6→q6).
+3. **Kalau ada yang keluar 0** (biasanya F2/F3 karena beda ejaan/format nama), jalankan HELPER dulu untuk lihat nilai `name` yang tersedia, lalu sesuaikan kata kunci di query:
+   - Lokasi (F2): `MATCH (l:Location) RETURN l.name ORDER BY l.name;`
+   - Waktu (F3): `MATCH (t:Time) RETURN t.name ORDER BY t.name;` (cari format "2 H"/"2 Hijriyah")
+   Ganti `"madinah"`/`"2 h"` di query sesuai temuan, lalu jalankan ulang.
+4. Kolom lain (Eksekusi / Tidak kosong / Sesuai sumber / Terlacak) diisi ✔/✘ apa adanya. "Sesuai sumber" & "Terlacak" dicek dari query **detail** (Q1.detail dst di file yang sama) yang menampilkan kolom `evidence` + `halaman`.
+
+> Berkas lengkap (Q1–Q6 detail + count + helper): `data/result/neo4j/functional_test_queries_bab4.cypher`.
+
+---
+
+## Ringkasan checklist
+
+- [ ] Import `import_sirah_v4_hybrid.cypher` (Langkah 0)
+- [ ] Screenshot **4.16** (Perang Badr), **4.17-kiri** (ego co-participation Muhammad, lewat Event), **4.17-kanan** (ego co-participation Abu Bakar, lewat Event), **4.18** (komunitas inti), **4.19** (5 peristiwa besar), **4.20** (Amr artefak), **4.21** (ego relasi LANGSUNG Muhammad — beda dari 4.17), **4.22** (F1 Perang Badr)
+- [ ] Jalankan query RINGKASAN → isi 6 angka Tabel 4.25 (Langkah 2)
+- [ ] Verifikasi "sesuai sumber"/"terlacak" via query detail (kolom evidence/halaman)
+
+**Total: 8 screenshot** (4.16, 4.17-kiri, 4.17-kanan, 4.18, 4.19, 4.20, 4.21, 4.22) + 1 query ringkasan. Semua Neo4j, tanpa matplotlib. **Catatan: 4.17 (co-participation lewat Event) dan 4.21 (relasi langsung) BEDA query → screenshot terpisah.**
+
+> Query bukti struktural tambahan (untuk pembahasan artefak: dua kubu Badr, Yatsrib-vs-Madinah) ada di `data/result/neo4j/sna_evidence_queries_bab4.cypher` — opsional, hanya bila ingin bukti tekstual di luar screenshot.

diff --git a/docs/lampiran/lampiran_komunitas_tokoh.md b/docs/lampiran/lampiran_komunitas_tokoh.md
@@ -1,0 +1,44 @@
+# Lampiran — Data Komunitas Jaringan Tokoh (Louvain)
+
+Lampiran ini merinci hasil deteksi komunitas dengan algoritma Louvain pada proyeksi jaringan antar tokoh (137 tokoh peserta peristiwa, ber-*scope*, lihat Subbab 4.5). Modularitas Q = 0,2831 dengan 8 komunitas bermakna ditambah beberapa pasangan periferal. Data ini menjadi dasar Gambar 4.18 (sub-graf komunitas terbesar) dan pembahasan pada Subbab 4.5.3.
+
+Skor sentralitas dan keanggotaan komunitas dihitung pada pipeline analisis (NetworkX, `src/analysis/sna_analysis.py --version v4_scoped`); sumber: `data/result/analysis/v4_scoped/sna_metrics.csv`.
+
+## Tabel L.1 — Ringkasan Komunitas
+
+| Komunitas | Jumlah anggota | Tokoh utama (urut *PageRank*) | Karakter |
+|:---:|:---:|---|---|
+| 0 | 66 | Muhammad, Ali bin Abu Thalib, Umar bin Al-Khaththab, Abu Bakar, Aisyah, Utsman bin Affan | Lingkar Muslim inti: Nabi, Khulafa Rasyidin, keluarga, dan banyak sahabat; sebagian tokoh oposisi ikut tercampur karena modularitas rendah |
+| 1 | 47 | Abu Jahal, Abu Sufyan bin Harb, Hamzah bin Abdul Muththalib, Zaid bin Haritsah, Abu Lahab | Poros oposisi Quraisy bercampur tokoh Muslim yang aktif pada peperangan besar |
+| 2 | 7 | Musailamah, Urwah bin Mas'ud, Ka'b bin Zuhair | Kelompok kecil seputar diplomasi dan penyair |
+| 3 | 3 | Tsabit bin Qais bin Syammas, Az-Zabir bin Batha, Iyas bin Mu'adz | Klaster periferal dari episode spesifik |
+| 4 | 3 | Nu'man bin Qail, Al-Harits bin Abdi, Mu'adz bin Jabal | Klaster periferal dari episode spesifik |
+| 5 | 3 | Abu Rafi', Abdullah bin Unais, Abdullah bin Atik | Klaster periferal dari episode spesifik |
+| 6 | 2 | Kurz bin Jabir, Sa'd bin Abu Waqqash | Pasangan periferal |
+| 7 | 2 | Usamah bin Zaid, Mirdas bin Nuhaik | Pasangan periferal |
+| 8 | 2 | Nu'aim bin Ma'ud, Sulaith bin An-Nu'man | Pasangan periferal |
+| 9 | 2 | Abu Bashir, Abu Jandal | Pasangan periferal |
+
+Catatan: komunitas 2 sampai 9 berukuran kecil (2 sampai 7 anggota) dan umumnya terbentuk dari tokoh yang berbagi satu atau sedikit peristiwa spesifik, sehingga terpisah dari dua komunitas besar. Pada modularitas serendah 0,2831, batas antar-kelompok besar (0 dan 1) melembut sehingga sejumlah tokoh oposisi dan tokoh perang saling tercampur, sebagaimana dibahas pada Subbab 4.5.3.
+
+## Tabel L.2 — Keanggotaan Lengkap per Komunitas
+
+**Komunitas 0 (66 anggota):** Muhammad, Ali bin Abu Thalib, Umar bin Al-Khaththab, Abu Bakar, Aisyah, Utsman bin Affan, Amr bin Umayyah, Hasan bin Ali, Abdullah bin Ubay bin Salul, Mush'ab bin Umair, Ibnu Hajar, Jabir bin Abdullah, Ka'b bin Al-Asyraf, Abu Salamah bin Abdul Asad, Abdullah bin Jahsy, Khalid bin Al-Walid, As'ad bin Zurarah, Qais bin Abu Hazim, Rafi' bin Khadij, Musa bin Uqbah, Samurah bin Jundab, Sulaith, Thalhah bin Ubaidillah, Ummu Aiman, Bakar Ash-Shidddiq, Ummu Sa'd, Ummu Salamah, As'ad bin Khuzaimah, Naf' bin Jubair, Urwah bin Az-Zubair, Al-Barra', Abu Thalhah, Abu Dujanah, Al-Barra' bin Azib, Salamah bin Al-Akwa', Jibril, Abu Musa, Abu Hurairah, Sa'd bin Mu'adz, Amir bin Al-Akwa', Ja'far bin Abu Thalib, Al-Miqdad bin Amr, Khadijah, Zainab binti Jahsy, Huyai bin Akhthab, Al-Qurthubi, Al-Mundzir bin Uqbah bin Amir, Musa bin Imran, Al-Baihaqi, Ibnul Jauzi, Abu Ubaidah bin Al-Jarrah, Adam, Ka'b bin Malik, Sallam bin Abul Huqaiq, Ummu Misthah, Sa D bin Mu Adz, Ibnu Qami'ah, Ka'b bin Asad, Ashhamah bin Al-Aijar, Ibnu Ummi, Martsad bin Abu Martsad, Al-Miqdad bin Al-Aswad, Amir bin Fuhairah, Abdullah bin Uraiqith, Malik bin Auf, Imran bin Amr.
+
+**Komunitas 1 (47 anggota):** Abu Jahal, Abu Sufyan bin Harb, Abu Azzah, Khunais bin Hudzafah, Zainab, Zaid bin Haritsah, Ummu Kultsum, Husain bin Ali, Abdurrahman, Hamzah bin Abdul Muththalib, Abu Lahab, Shafwan bin Umayyah, Thu'aimah bin Adi, Umayyah bin Khalaf, Bilal bin Rabah, Najasyi, An-Nadhr bin Al-Harits, Wahb bin Umair, Umair bin Wahb, Uqbah bin Al-Harits, Zaid bin Ad-Dastinah, Ukkasyah bin Mihshan, Ubadah bin Ash-Shamit, Ali bin Umayyah, Abdurrahman bin Auf, Al-Aswad bin Al-Muththalib, Abdullah bin Abu Bakar, Amr bin Al-Ash, Ikrimah bin Abu Jahal, Al-Abbas bin Abdul Muththalib, Jubair bin Muth'im, Siba bin Arfazhah, Abu Lubabah bin Abdul, Wahsy bin Harb, Ummul Fadhl, Abul Ash, Abdullah bin Abbas, Umayyah, Hakim bin Hizam, Abul Bakhtari bin Hisyam, Abu Thalib, Abu Shafwan, Budail bin Zarqa', Abu Hudzaifah, Utbah bin Rabi'ah, Salamah bin Abu Salamah, Musafi' bin Abdi.
+
+**Komunitas 2 (7 anggota):** Musailamah, Urwah bin Mas'ud, Ka'b bin Zuhair, Bujair bin Zuhair, Syaima' binti Al-Harits, Mu'adz bin Amr, Jabalah bin Al-Aiham.
+
+**Komunitas 3 (3 anggota):** Tsabit bin Qais bin Syammas, Az-Zabir bin Batha, Iyas bin Mu'adz.
+
+**Komunitas 4 (3 anggota):** Nu'man bin Qail, Al-Harits bin Abdi, Mu'adz bin Jabal.
+
+**Komunitas 5 (3 anggota):** Abu Rafi', Abdullah bin Unais, Abdullah bin Atik.
+
+**Komunitas 6 (2 anggota):** Kurz bin Jabir, Sa'd bin Abu Waqqash.
+
+**Komunitas 7 (2 anggota):** Usamah bin Zaid, Mirdas bin Nuhaik.
+
+**Komunitas 8 (2 anggota):** Nu'aim bin Ma'ud, Sulaith bin An-Nu'man.
+
+**Komunitas 9 (2 anggota):** Abu Bashir, Abu Jandal.
